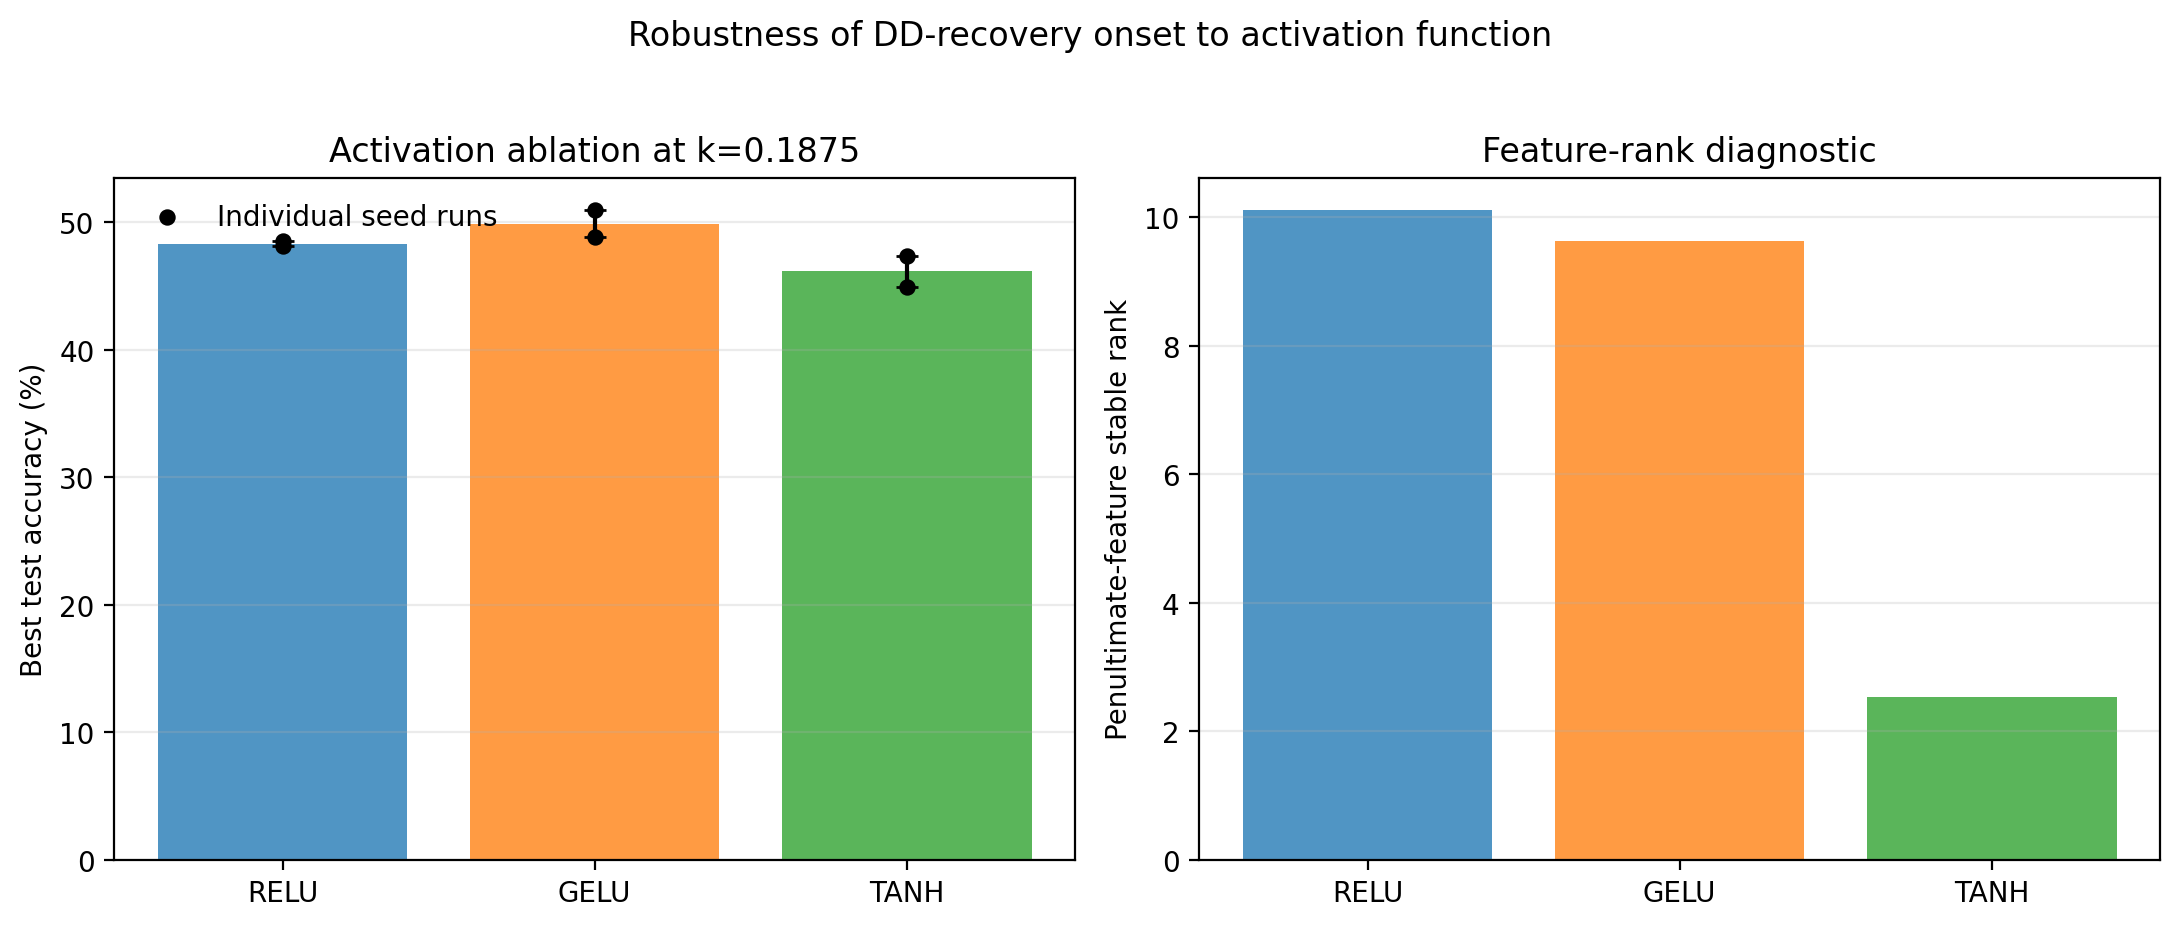
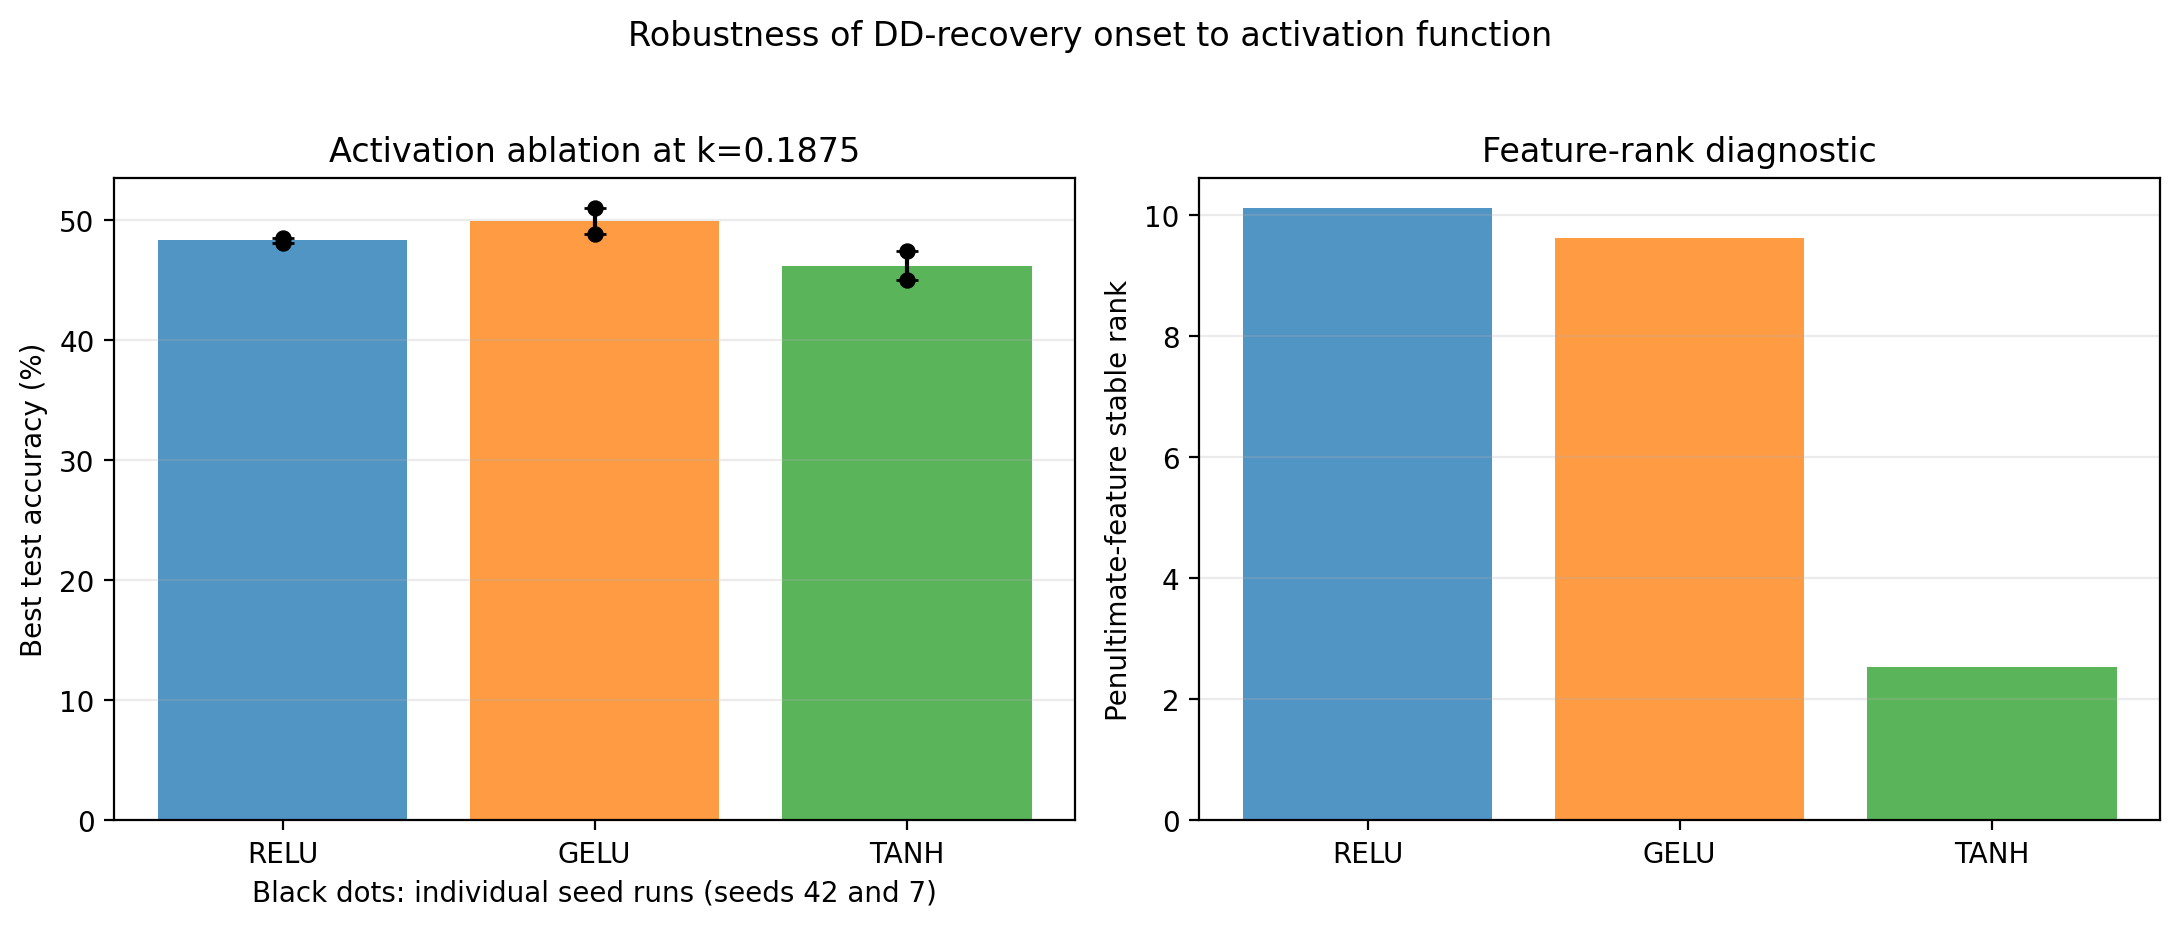
chore(results): move activation seed marker note

diff --git a/src/experiments/exp_activation_ablation.py b/src/experiments/exp_activation_ablation.py
@@ -378,13 +378,12 @@ def plot_summary(rows, figure_path):
             color="black",
             s=24,
             zorder=3,
-            label="Individual seed runs" if i == 0 else None,
         )
     axes[0].set_xticks(x, [act.upper() for act in activations])
+    axes[0].set_xlabel("Black dots: individual seed runs (seeds 42 and 7)")
     axes[0].set_ylabel("Best test accuracy (%)")
     axes[0].set_title("Activation ablation at k=0.1875")
     axes[0].grid(axis="y", alpha=0.25)
-    axes[0].legend(loc="upper left", frameon=False)
 
     axes[1].bar(x, eff_means, color=colors, alpha=0.78)
     axes[1].set_xticks(x, [act.upper() for act in activations])